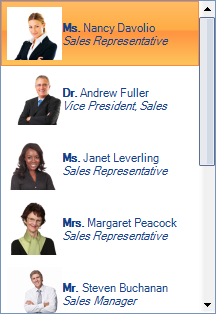
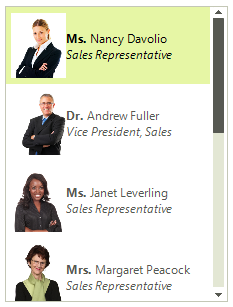
Completed ListControl and applied feedback for DesktopAlert

diff --git a/dropdown-listcontrol-and-checkeddropdownlist/listcontrol/properties-methods-events.md b/dropdown-listcontrol-and-checkeddropdownlist/listcontrol/properties-methods-events.md
@@ -1,0 +1,85 @@
+---
+title: Properties, Methods and Events
+page_title: Properties, Methods and Events | RadListControl
+description: RadListControl is the an alternative to the Microsoft ListBox control.
+slug: winforms/dropdown-listcontrol-and-checkeddropdownlist/listcontrol/properties-methods-events
+tags: listcontrol, properties, methods, events
+published: True
+position: 5
+---
+
+# Properties
+
+|Property|Description|
+|----|----| 
+|__EnableAlternatingItemColor__|Gets or sets a value indicating whether alternating item color is enabled.|
+|__EnableKineticScrolling__|Gets or sets a value indicating whether the kinetic scrolling function is enabled.|
+|__FitItemsToSize__|Gets or sets whether the RadListDataItem will fit to the available size.|
+|__CaseSensitiveSort__|Gets or sets a value that indicates whether text case will be taken into account when sorting.|
+|__ItemHeight__|Gets or sets the item height for the items. This property is disregarded when AutoSizeItems is set to true.|
+|__KeyboardSearchResetInterval__|Gets or sets a value that specifies how long the user must wait before searching with the keyboard is reset.|
+|__KeyboardSearchEnabled__|Gets or sets a value that determines whether the user can search for an item by typing characters when RadListControl is focused.|
+|__Items__|Gets a collection representing the items contained in this RadListControl.|
+|__SelectedItems__|Provides a read only interface to the selected items. In order to select an item, use its Selected property.|
+|__SelectionMode__|Gets or sets the SelectionMode of RadListControl. This property has a similar effect to the SelectionMode of the standard Microsoft ListBox control.|
+|__SelectedValue__|Gets or sets the SelectedValue. A linear search is performed to find a data item that has the same value in its Value property and SelectedItem and SelectedIndex are updated to it and its index respectively.|
+|__ActiveItem__|Gets or sets the active item. The Active item is relevant only in MultiSimple SelectionMode or MultiExtended in combination with the control keyboard key.|
+|__SelectedItem__|Gets or sets the currently selected item.|
+|__SelectedIndex__|Gets or sets the currently selected index.|
+|__DataSource__|Gets or sets the object that is responsible for providing data objects for the RadListElement. Setting this property throws an InvalidOperationException if Items is not empty and the data source is null.|
+|__DataMember__|Gets or sets the name of the list or table in the data source for which the RadListControl is displaying data.|
+|__DisplayMember__|Gets or sets a string which will be used to get a text string for each visual item. This property can not be set to null. Setting it to null will cause it to contain an empty string.|
+|__ValueMember__|Gets or sets the string through which the SelectedValue property will be determined. This property can not be set to null. Setting it to null will cause it to contain an empty string.|
+|__DescriptionTextMember__|Gets or sets the string through which the SelectedValue property will be determined. This property can not be set to null. Setting it to null will cause it to contain an empty string.|
+|__SortStyle__|Gets or sets the sort style.|
+|__ScrollMode__|Gets or set the scroll mode.|
+|__FormatString__|Gets or sets a format string which will be used for visual formatting of the items text.|
+|__FormattingEnabled__|Gets or sets a value that indicates whether the FormatString and FormatInfo properties will be used to format the items text. Setting this property to false may improve performance.|
+|__AutoSizeItems__|Gets or sets a value that indicates whether items will be sized according to their content. If this property is true the user can set the Height property of each individual RadListDataItem in the Items collection in order to override the automatic sizing.|
+|__Filter__|Gets or sets a predicate which filters which items can be visible.|
+|__FilterExpression__|Gets or sets a filter expression which determines which items will be visible.|
+|__IsFilterActive__|Gets a value indicating whether there is a Filter or FilterExpression set.|
+|__FindStringComparer__|Gets or sets an object that implements IFindStringComparer. The value of this property is used in the FindString() method when searching for an item.|
+|__ItemTextComparisonMode__|Gets or sets a value that determines whether the FindString() method searches via the text property set by the user or by the text provided by the data binding logic, that is, by DisplayMember.|
+|__SuspendItemsChangeEvents__|Gets or sets a value that indicates if this RadListControl will stop firing the ItemsChanging and ItemsChanged events.|
+|__SuspendSelectionEvents__|Gets or sets a value that determines whether to stop the selection events from firing. These are SelectedIndexChanged, SelectedIndexChanging and SelectedValueChanged.|
+
+# Methods
+
+|Method|Description|
+|----|----| 
+|__FindItemExact__|Finds the first item in the RadListControl that matches the specified string.|
+|__Rebind__|Forces re-evaluation of the current data source (if any).|
+|__BeginUpdate__|Suspends internal notifications and processing in order to improve performance.This method is cumulative, that is, if BeginUpdate is called N times, EndUpdate must also be called N times. Calling BeginUpdate will cause the ItemsChanged event to stop firing until EndUpdate is called.|
+|__SelectAll__|Selects all items if the SelectionMode allows it. This method throws an InvalidOperationException if SelectionMode is One or None.|
+|__SelectRange__|Clears the currently selected items and selects all items in the closed range [startIndex, endIndex].|
+|__ScrollToItem__|Scrolls to the provided item so that the item will appear at the top of the view if it is before the currently visible items and at the bottom of the view if it is after the currently visible items.|
+|__FindString(string s)__|Searches for an item related to the specified string. The relation is described by the object assigned to FindStringComparer property. By default this relation is the System.String.StartsWith(). This method starts searching from the beginning of the items.|
+|__FindString(string s, int startIndex)__|Searches for an item related to the specified string. The relation is described by the object assigned to FindStringComparer property. By default this relation is the System.String.StartsWith(). This method starts searching from the specified index. If the algorithm reaches the end of the Items collection it wraps to the beginning and continues until one before the provided index.|
+|__FindStringExact(string s)__|Searches for an item in the same manner as FindString() but matches an item only if its text is exactly equal to the provided string.|
+|__FindStringExact(string s, int startIndex)__|Searches for an item in the same manner as FindString() but matches an item only if its text is exactly equal to the provided string.|
+|__FindStringNonWrapping(string s)__|Searches for an item in the same manner as FindString() but does not start from the beginning when the end of the Items collection is reached.|
+|__FindStringNonWrapping(string s, int startIndex)__|Searches for an item from a certain index in the same manner as FindString() but does not start from the beginning when the end of the Items collection is reached.|
+
+# Events
+
+|Event|Description|
+|----|----| 
+|__SelectedIndexChanged__|This event fires when the selected index property changes.|
+|__SelectedIndexChanging__|This event fires before SelectedIndex changes. This event allows the operation to be canceled.|
+|__SelectedValueChanged__|This event fires only if the SelectedValue has really changed. For example it will not fire if the previously selected item has the same value as the newly selected item.|
+|__ItemDataBinding__|This event fires before a RadListDataItem is data bound. This happens when the DataSource property is assigned and the event fires for every item provided by the data source. This event allows a custom RadListDataItem to be provided by the user.|
+|__ItemDataBound__|This event fires after a RadListDataItem is data bound. This happens when the DataSource property is assigned and the event is fired for every item provided by the data source.|
+|__CreatingVisualListItem__|This event allows the user to create custom visual items. It is fired initially for all the visible items and when the control is resized afterwards.|
+|__SortStyleChanged__|This event fires when the SortStyle property changes.|
+|__VisualItemFormatting__|The VisualItemFormatting event fires whenever a property of a visible data item changes and whenever a visual item is associated with a new data item. During scrolling for example.|
+|__SelectedItemsChanged__|This event fires when the SelectedItems collection changes.|
+|__SelectedItemsChanging__|This event fires before the SelectedItems collection changes.|
+
+# See Also
+
+* [Properties](http://docs.telerik.com/devtools/winforms/api/html/Properties_T_Telerik_WinControls_UI_RadListControl.htm)
+* [Methods](http://docs.telerik.com/devtools/winforms/api/html/Methods_T_Telerik_WinControls_UI_RadListControl.htm)
+* [Events](http://docs.telerik.com/devtools/winforms/api/html/Events_T_Telerik_WinControls_UI_RadListControl.htm)
+ 
+            

diff --git a/dropdown-listcontrol-and-checkeddropdownlist/listcontrol/customizing-items-(visual-appearance).md b/dropdown-listcontrol-and-checkeddropdownlist/listcontrol/customizing-items-(visual-appearance).md
@@ -1,7 +1,7 @@
 ---
-title: Customizing Items (visual appearance)
-page_title: Customizing Items (visual appearance) | UI for WinForms Documentation
-description: Customizing Items (visual appearance)
+title: Customizing Items
+page_title: Customizing Items | RadListControl
+description: RadListControl is the an alternative to the Microsoft ListBox control.
 slug: winforms/dropdown-listcontrol-and-checkeddropdownlist/listcontrol/customizing-items-(visual-appearance)
 tags: customizing,items,(visual,appearance)
 published: True
@@ -9,21 +9,20 @@ position: 9
 previous_url: dropdown-and-listcontrol-listcontrol-customizing-items-(visual-appearance)
 ---
 
-# Customizing Items (visual appearance)
- 
-## 
+# Customizing Items
 
-You can use the __ItemDataBound__ event to change item content based on the data that is bound to each item. The __ListItemDataBoundEventArgs__ include properties for the native DataBoundItem (a DataRowView object, which provides access to the entire row being bound) and the data item of RadListControl. In the example below the DisplayName property is "FirstName". Two other columns, "FirstName" and "TitleOfCourtesy", are pre-pended to the data list item.
+You can use the __ItemDataBound__ event to change item content based on the data that is bound to each item. The __ListItemDataBoundEventArgs__ include properties for the native __DataBoundItem__ (a DataRowView object, which provides access to the entire row being bound) and the data item of __RadListControl__. In the example below the __DisplayName__ property is set to *"FirstName"*. Two other columns, *"FirstName"* and *"TitleOfCourtesy"*, are pre-pended to the data list item.
 
 With the introduction of the [HTML-like text rendering feature]({%slug winforms/telerik-presentation-framework/html-like-text-formatting%}), Telerik Presentation Framework increased the level of the available customizations that you can apply. That said, you are able to use this feature to indicate different roles of different parts of the __Text__ property value.
 
 The aim of this article is to demonstrate how you can achieve to look shown below. As you can see we have three different parts of the text: *TitleOfCourtesy*, *FullName*(*FirstName* + *LastName*) and *Title*. For the purposes of the example, we are going to add an image as well.
 
+>caption Figure 1: Customizing Items
+
 ![dropdown-and-listcontrol-listcontrol-customizing-items-visual-appearance 001](images/dropdown-and-listcontrol-listcontrol-customizing-items-visual-appearance001.png)
 
+1\. Handle the __ItemDataBound__ event to fill the data list items with custom data. 
 
-
-1\. Handle the ItemDataBound event to fill the data list items with custom data. 
 #### Handling the ItemDataBound event 
 
 {{source=..\SamplesCS\DropDownListControl\ListControl\CustomizingItems.cs region=itemDataBound}} 

diff --git a/desktopalert/structure.md b/desktopalert/structure.md
@@ -1,6 +1,6 @@
 ---
 title: Structure
-page_title: Structure | UI for WinForms Documentation
+page_title: Structure | RadDesktopAlert
 description: RadDesktopAlert component displays a small pop-up window on the screen to notify the user that a specific event has occurred in the application. 
 slug: winforms/desktopalert/structure
 tags: desktopalert, structure
@@ -12,17 +12,21 @@ position: 1
 
 This article describes the inner structure and organization of the elements which build the __RadDesktopAlert__ control.
 
->caption Fig.1 RadDesktopAlert's structure
+>caption Figure 1: RadDesktopAlert's elements hierarchy
+
+![desktopalert-structure 002](images/desktopalert-structure002.png)
+
+>caption Figure 2: RadDesktopAlert's structure
 
 ![desktopalert-structure 001](images/desktopalert-structure001.png)
 
 
-1. __RadDesktopAlertElement__: represents the main element of a __RadDesktopAlert__ <br>
-	1\.1\. __AlertWindowCaptionElement__: represents the caption of a __RadDesktopAlert__. It contains a caption grip which is used to move the alert window, close button and options drop-down button.<br>
-		 1\.1\.1\. __AlertWindowCaptionGrip__: represents the part of a __RadDesktopAlert__ that can be used to move the component on the screen.<br>
-		 1\.1\.2\. __AlertWindowTextAndSystemButtonsElement__: represents the part of a __RadDesktopAlert__ that contains the text and the system buttons.<br>
-	1\.2\. __AlertWindowContentElement__: represents the content of a __RadDesktopAlert__ component.The content usually is built of an image and HTML enabled text. <br>
-	1\.3\. __AlertWindowButtonsPanel__: represents the element which holds the buttons that can be added in a __RadDesktopAlert__ window.<br>
+1. __RadDesktopAlertElement__: represents the main element of a __RadDesktopAlert__  
+  1\.1\. __AlertWindowCaptionElement__: represents the caption of a __RadDesktopAlert__. It contains a caption grip which is used to move the alert window, close button and options drop-down button.   
+&nbsp;&nbsp;&nbsp;&nbsp;&nbsp;1\.1\.1\. __AlertWindowCaptionGrip__: represents the part of a __RadDesktopAlert__ that can be used to move the component on the screen. 
+&nbsp;&nbsp;&nbsp;&nbsp;&nbsp;1\.1\.2\. __AlertWindowTextAndSystemButtonsElement__: represents the part of a __RadDesktopAlert__ that contains the text and the system buttons.<br>
+  1\.2\. __AlertWindowContentElement__: represents the content of a __RadDesktopAlert__ component.The content usually is built of an image and HTML enabled text. <br>
+  1\.3\. __AlertWindowButtonsPanel__: represents the element which holds the buttons that can be added in a __RadDesktopAlert__ window.<br>
 
 # See Also
 

diff --git a/desktopalert/properties-methods-events.md b/desktopalert/properties-methods-events.md
@@ -1,6 +1,6 @@
 ---
 title: Properties, Methods, Events
-page_title: Properties, Methods, Events | UI for WinForms Documentation
+page_title: Properties, Methods, Events | RadDesktopAlert
 description: RadDesktopAlert component displays a small pop-up window on the screen to notify the user that a specific event has occurred in the application. 
 slug: winforms/desktopalert/properties,methods,events
 tags: desktopalert, structure
@@ -58,17 +58,6 @@ previous_url: desktopalert-customizations
 |__Closing__|Fires when the alert's pop up is about to be closed. The closing action can be canceled by modifying the arguments of this event.|
 |__Closed__|Fires when the alert's pop up was closed.|
 
- 
-## Displaying Multiple RadDesktopAlert Instances on the Screen
- 
-You can easily display multiple alerts on the screen thanks to the __DesktopAlertManager__ which takes care to calculate the alerts’ location so that they do not overlap. When shown on the screen, an alert is first registered in the __DesktopAlertManager__ which calculates its location based on the __ScreenPosition__ setting and the other desktop alerts shown on the screen having the same __ScreenPosition__ setting. In this way, alerts with the same screen position are stacked on the screen in the order of their appearance. When an alert is closed, all related alerts visible are automatically relocated to optimally utilize the screen estate.
-
-## Multiple Screens Scenarios
-
-__RadDesktopAlert__ is designed to support multi-monitor environments. Currently, you can set the active monitor and all desktop alerts will be displayed on it. To do so, you need to specify which of your screens will be used as an active screen when positioning desktop alert pop ups. To do so, you can use the __SetActiveScreen__ method of the __DesktopAlertManager__ class. This way all desktop alerts will be positioned on the specified screen regarding their __ScreenPosition__.
-
->note When calling the __SetActiveScreen__ method all currently visible alerts are relocated to the newly specified screen whereby their __ScreenPosition__ setting is considered.
->
 
 # See Also 
 * [Properties](http://docs.telerik.com/devtools/winforms/api/html/Properties_T_Telerik_WinControls_UI_RadDesktopAlert.htm)

diff --git a/dropdown-listcontrol-and-checkeddropdownlist/listcontrol/features/scrolling.md b/dropdown-listcontrol-and-checkeddropdownlist/listcontrol/features/scrolling.md
@@ -1,0 +1,37 @@
+---
+title: Scrolling
+page_title: Scrolling | RadListControl
+description: RadListControl is the an alternative to the Microsoft ListBox control.
+slug: winforms/dropdown-listcontrol-and-checkeddropdownlist/listcontrol/features/items-text-formatting
+tags: listcontrol, scrolling
+published: True
+position: 6  
+---
+
+# Scrolling
+
+If the __RadListDataItems__ cannot fit in the pop up, a vertical scroll bar appears so that they can be scrolled and later selected. __RadListControl__ provides three scrolling modes that can be used depending on user preferences: *Discrete*, *Smooth* and *Deferred*. It is controlled by the __ScrollMode__ property.
+
+|ScrollMode|Description|Scrolling Behavior|
+|----|----|----|
+|__Discrete__|Defines scrolling by only one item at a time.|![dropdown-and-listcontrol-listcontrol-features-scrolling 001](images/dropdown-and-listcontrol-listcontrol-features-scrolling001.gif)|
+|__Smooth__|Sets scrolling by pixel, meaning that an item can be partially visible.|![dropdown-and-listcontrol-listcontrol-features-scrolling 002](images/dropdown-and-listcontrol-listcontrol-features-scrolling002.gif)|
+|__Deferred__|Does not cause GUI updates until the user finishes the scrolling operation.|![dropdown-and-listcontrol-listcontrol-features-scrolling 003](images/dropdown-and-listcontrol-listcontrol-features-scrolling003.gif)|
+
+## KineticScrolling
+
+This feature ensures that the control is ready for modern touch-screen applications. It can be attached by simply setting the __EnableKineticScrolling__ property to *true*.
+        
+>caption Figure 1: Enable Kinetic Scrolling
+
+![dropdown-and-listcontrol-listcontrol-features-scrolling 004](images/dropdown-and-listcontrol-listcontrol-features-scrolling004.gif)
+
+## Programmatically Scrolling
+
+The RadListControl.__ListElement__ provides out of the box functionality for programmatically scrolling its content. The available methods are: 
+        
+* __ScrollToItem__: Scrolls to a specific item.
+            
+
+* __ScrollToActiveItem__: Scrolls to the active item if it is not null and if it is not fully visible.
+            

diff --git a/desktopalert/desktopalertmanager .md b/desktopalert/desktopalertmanager .md
@@ -1,0 +1,20 @@
+---
+title: DesktopAlertManager 
+page_title: DesktopAlertManager  | RadDesktopAlert
+description: RadDesktopAlert component displays a small pop-up window on the screen to notify the user that a specific event has occurred in the application. 
+slug: winforms/desktopalert/desktopalertmanager 
+tags: desktopalert, desktopalertmanager
+published: True
+position: 7
+---
+
+## Displaying Multiple RadDesktopAlert Instances on the Screen
+ 
+You can easily display multiple alerts on the screen thanks to the __DesktopAlertManager__ which takes care to calculate the alerts’ location so that they do not overlap. When shown on the screen, an alert is first registered in the __DesktopAlertManager__ which calculates its location based on the __ScreenPosition__ setting and the other desktop alerts shown on the screen having the same __ScreenPosition__ setting. In this way, alerts with the same screen position are stacked on the screen in the order of their appearance. When an alert is closed, all related alerts visible are automatically relocated to optimally utilize the screen estate.
+
+## Multiple Screens Scenarios
+
+__RadDesktopAlert__ is designed to support multi-monitor environments. Currently, you can set the active monitor and all desktop alerts will be displayed on it. To do so, you need to specify which of your screens will be used as an active screen when positioning desktop alert pop ups. To do so, you can use the __SetActiveScreen__ method of the __DesktopAlertManager__ class. This way all desktop alerts will be positioned on the specified screen regarding their __ScreenPosition__.
+
+>note When calling the __SetActiveScreen__ method all currently visible alerts are relocated to the newly specified screen whereby their __ScreenPosition__ setting is considered.
+>

diff --git a/dropdown-listcontrol-and-checkeddropdownlist/dropdownlist/dropdown-resizing.md b/dropdown-listcontrol-and-checkeddropdownlist/dropdownlist/dropdown-resizing.md
@@ -183,12 +183,49 @@ The following example demonstrates a sample approach how to handle the RadDropDo
 
 #### Auto size drop down 
 
-{{source=..\SamplesCS\DropDownListControl\DropDownList\DropDownListItemSizing.cs region=AutoSizeDropDown}} 
-{{source=..\SamplesVB\DropDownListControl\DropDownList\DropDownListItemSizing.vb region=AutoSizeDropDown}} 
+{{source=..\SamplesCS\DropDownListControl\DropDownList\DropDownList1.cs region=AutoSizeDropDown}} 
+{{source=..\SamplesVB\DropDownListControl\DropDownList\DropDownList1.vb region=AutoSizeDropDown}} 
 
 ````C#
+private void RadDropDownList1_PopupOpening(object sender, CancelEventArgs e)
+{
+    RadDropDownListElement list = sender as RadDropDownListElement;
+    float width = 0;
+
+    for (int x = 0; x < list.Items.Count(); x++)
+    {
+        width = Math.Max(width, TextRenderer.MeasureText(list.Items[x].Text, list.Font).Width);
+    }
+
+    if (list.Items.Count * (list.ItemHeight-1) > list.DropDownHeight)
+    {
+        width += list.ListElement.VScrollBar.Size.Width;
+
+    }
+
+    list.Popup.Width = (int)width;
+
+}
+
 ````
 ````VB.NET
+Private Sub RadDropDownList1_PopupOpening(sender As Object, e As CancelEventArgs)
+    Dim list As RadDropDownListElement = TryCast(sender, RadDropDownListElement)
+    Dim width As Single = 0
+
+    For x As Integer = 0 To list.Items.Count() - 1
+        width = Math.Max(width, TextRenderer.MeasureText(list.Items(x).Text, list.Font).Width)
+    Next
+
+    If list.Items.Count * (list.ItemHeight - 1) > list.DropDownHeight Then
+
+        width += list.ListElement.VScrollBar.Size.Width
+    End If
+
+    list.Popup.Width = CInt(width)
+
+End Sub
+
 ````
 
 {{endregion}} 

diff --git a/desktopalert/desktopalert.md b/desktopalert/desktopalert.md
@@ -1,6 +1,6 @@
 ---
 title: Overview
-page_title: DesktopAlert | UI for WinForms Documentation
+page_title: DesktopAlert | RadDesktopAlert
 description: RadDesktopAlert component displays a small pop-up window on the screen to notify the user that a specific event has occurred in the application. 
 slug: winforms/desktopalert
 tags: desktopalert
@@ -18,3 +18,9 @@ previous_url: desktopalert-overview
 __RadDesktopAlert__ component displays a small pop-up window on the screen to notify the user that a specific event has occurred in the application. The component exposes a convenient API for modifying its behavior, appearance and also can be easily styled in the Visual Style Builder. __RadDesktopAlert__ supports multi-monitor environments via __DesktopAlertManager__. __DesktopAlertManager__ takes care for the proper positioning of multiple __RadDesktopAlert__ instances on the screen estate so that it is optimally used. __RadDesktopAlert__ can be easily integrated in a Windows Forms application. It is available as a component in the Telerik UI for WinForms suite and can be dragged and dropped on a Windows Forms from the Visual Studio Toolbox.
 
 ![desktopalert-overview 002](images/desktopalert-overview002.png)
+
+
+# See Also
+
+* [Design Time]({%slug winforms/desktopalert/designtime%})
+* [Getting Started]({%slug winforms/desktopalert/gettingstarted%})

diff --git a/dropdown-listcontrol-and-checkeddropdownlist/listcontrol/customizing-appearance/formatting-items.md b/dropdown-listcontrol-and-checkeddropdownlist/listcontrol/customizing-appearance/formatting-items.md
@@ -82,3 +82,30 @@ Class
 ````
 
 {{endregion}} 
+
+## Alternating Item Color
+
+__RadListControl__ supports alternating item color which can be easily enabled by just setting a couple of properties: 
+
+{{source=..\SamplesCS\DropDownListControl\ListControl\ListControl1.cs region=alternating}} 
+{{source=..\SamplesVB\DropDownListControl\ListControl\ListControl1.vb region=alternating}} 
+
+````C#
+radListControl1.EnableAlternatingItemColor = true;
+radListControl1.ListElement.AlternatingItemColor = Color.Red;
+
+````
+````VB.NET
+radListControl1.EnableAlternatingItemColor = True
+radListControl1.ListElement.AlternatingItemColor = Color.Red
+
+````
+
+{{endregion}} 
+
+>caption Figure 2: AlternatingItemColor
+
+![listcontrol-formatting-items 002](images/listcontrol-formatting-items002.png)
+
+
+

diff --git a/desktopalert/customizing-appearance/themes.md b/desktopalert/customizing-appearance/themes.md
@@ -1,6 +1,6 @@
 ---
 title: Themes
-page_title: Themes | UI for WinForms Documentation
+page_title: Themes | RadDesktopAlert
 description: RadDesktopAlert component displays a small pop-up window on the screen to notify the user that a specific event has occurred in the application. 
 slug: winforms/desktopalert/customizing-appearance/themes
 tags: desktopalert, themes
@@ -25,6 +25,10 @@ This help article will demonstrate a step by step tutorial how to customize the 
 1. Modify the applied *text* repository item. 
 
 	![desktopalert-themes 002](images/desktopalert-themes002.png)
+
+1. You can see the result directly in the Visual Style Builder.
+	
+	![desktopalert-themes 003](images/desktopalert-themes003.png)
 
 1. Save the theme by selecting *File >> Save As*.
 

diff --git a/desktopalert/customizing-appearance/accessing-and-customizing-elements.md b/desktopalert/customizing-appearance/accessing-and-customizing-elements.md
@@ -1,6 +1,6 @@
 ---
 title: Accessing and Customizing Elements
-page_title: Accessing and Customizing Elements | UI for WinForms Documentation
+page_title: Accessing and Customizing Elements | RadDesktopAlert
 description: RadDesktopAlert component displays a small pop-up window on the screen to notify the user that a specific event has occurred in the application. 
 slug: winforms/desktopalert/customizing-appearance/accessing-and-customizing-elements 
 tags: desktopalert

diff --git a/desktopalert/button-items.md b/desktopalert/button-items.md
@@ -1,6 +1,6 @@
 ---
 title: Button Items
-page_title: Button Items | UI for WinForms Documentation
+page_title: Button Items | RadDesktopAlert
 description: RadDesktopAlert component displays a small pop-up window on the screen to notify the user that a specific event has occurred in the application. 
 slug: winforms/desktopalert/button-items
 tags: desktopalert, buttonitems
